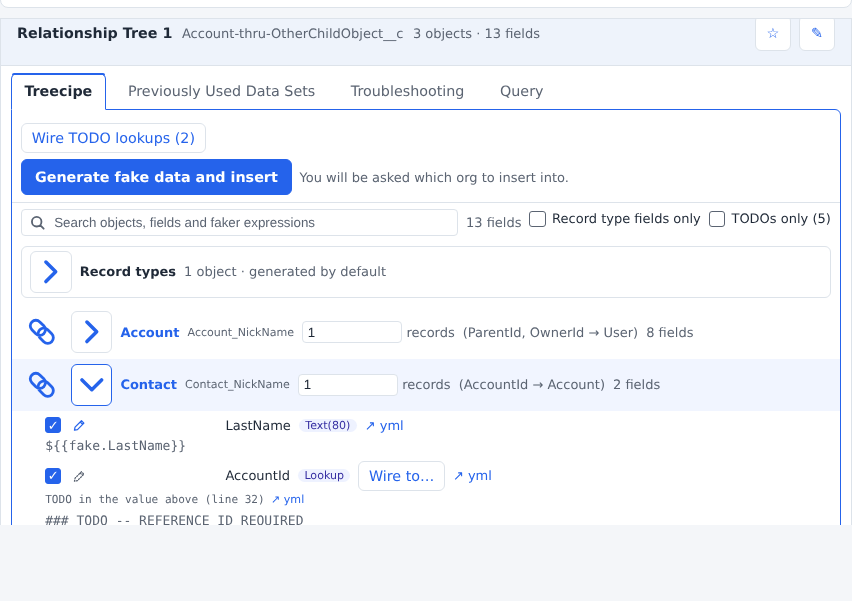
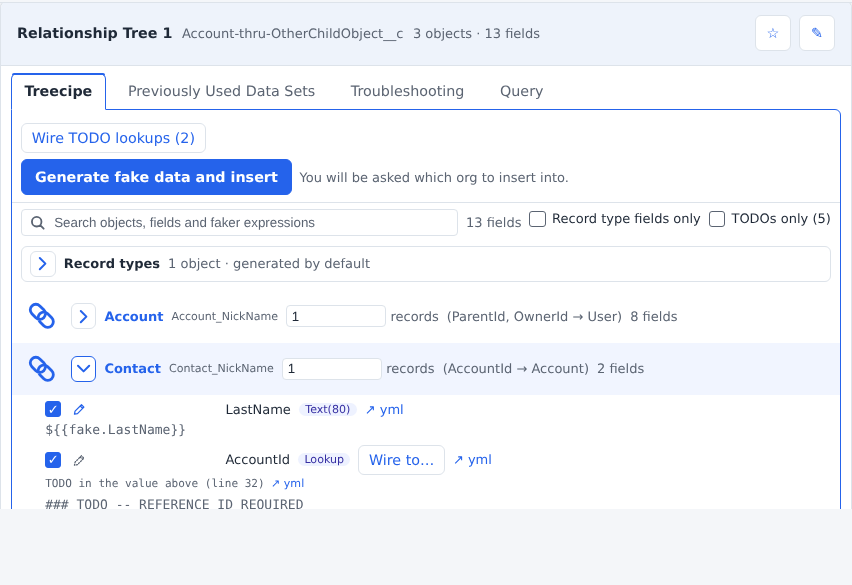
v3.117.0 — Recipe Cockpit: the chevron expand/collapse toggles are smaller, and every one is the same size (#392)
Every chevron toggle (Treecipe object rows, the Record types section
header, the TODO's and Validation Rules object groups) now carries one
shared chevronToggle class: a 1.6rem box holding a 1.2rem chevron, down
from 2.6rem/2.1rem, lifting the secondary kind's 2.25rem minimum. The
Troubleshooting chevrons, which had no size rule and were larger than
the object rows', now match. Guide screenshots re-taken.

Claude-Session: https://claude.ai/code/session_011S4EqzNTsKErxp7ozfLTd1

diff --git a/src/treecipe/src/RecipeCockpitService/tests/RecipeCockpitService.test.ts b/src/treecipe/src/RecipeCockpitService/tests/RecipeCockpitService.test.ts
@@ -443,11 +443,13 @@ describe('RecipeCockpitService', () => {
         // #244 MADE THE ▸/▾ BIG ENOUGH TO READ AT A GLANCE; #277 GAVE THE PICKLIST'S THE SAME SIZE AND CENTRED ALL THREE
         // #343: THE PICKLIST'S IS A TEXT BUTTON NOW, OF ONE FIXED WIDTH ITS SPACER SHARES
         // #374: A CARD HAS NO ▸ OF ITS OWN ANY MORE
-        it('draws the Treecipe object toggle as one centred 2.6rem box, the picklist button and its spacer one width, and the field rows centred on them', () => {
+        // #392: EVERY CHEVRON SHRANK TO ONE 1.6rem BOX, AND THE SECONDARY KIND'S 2.25rem MINIMUM NO LONGER HOLDS IT OPEN
+        it('draws every chevron toggle as one centred 1.6rem box holding a 1.2rem glyph, the picklist button and its spacer one width, and the field rows centred on them', () => {
 
             const styleSheet = styleSheetOf(RecipeCockpitService.buildWebviewShellHtml('testNonce'));
-            const toggleBoxRule = ruleFor(styleSheet, '\\.treeObjectToggle');
-            const toggleCentringRule = ruleFor(styleSheet, '\\.treeObjectToggle');
+            const toggleBoxRule = ruleFor(styleSheet, '\\.chevronToggle');
+            const toggleCentringRule = ruleFor(styleSheet, '\\.chevronToggle');
+            expect(ruleFor(styleSheet, '\\.treeObjectToggle')).toBe('');
             expect(styleSheet).not.toContain('.treeToggle');
             const picklistWidthRule = ruleFor(styleSheet, '\\.picklistToggle, \\.picklistToggleSpacer');
 
@@ -456,8 +458,15 @@ describe('RecipeCockpitService', () => {
             expect(ruleFor(styleSheet, '\\.picklistToggle')).toContain('white-space: nowrap;');
             expect(styleSheet).not.toMatch(/\.picklistToggle[^{]*\{[^}]*height: 2\.6rem/);
 
-            expect(toggleBoxRule).toContain('width: 2.6rem;');
-            expect(toggleBoxRule).toContain('height: 2.6rem;');
+            expect(toggleBoxRule).toContain('width: 1.6rem;');
+            expect(toggleBoxRule).toContain('height: 1.6rem;');
+            expect(toggleBoxRule).toContain('min-width: 0;');
+            expect(toggleBoxRule).toContain('min-height: 0;');
+            expect(styleSheet.indexOf(toggleBoxRule)).toBeGreaterThan(styleSheet.indexOf(ruleFor(styleSheet, '\\.sdtButton-primary, \\.sdtButton-secondary')));
+            const toggleGlyphRule = ruleFor(styleSheet, '\\.toggleGlyph');
+            expect(toggleGlyphRule).toContain('width: 1.2rem;');
+            expect(toggleGlyphRule).toContain('height: 1.2rem;');
+            expect(styleSheet).not.toMatch(/2\.6rem[^}]*\}[^{]*\.toggleGlyph|\.toggleGlyph \{[^}]*2\.1rem/);
             expect(toggleCentringRule).toContain('display: inline-flex;');
             expect(toggleCentringRule).toContain('align-items: center;');
             expect(toggleCentringRule).toContain('justify-content: center;');
@@ -2222,6 +2231,7 @@ describe('RecipeCockpitService', () => {
 
             const accountElement = treeObjectNamed(panel, firstTreeCard, 'Account');
             const objectToggle = panel.findAll(accountElement, 'treeObjectToggle')[0];
+            expect(objectToggle.classList.contains('chevronToggle')).toBe(true);
             expect(objectToggle.textContent).toBe('');
             expect(objectToggle.children[0].namespaceURI).toBe('http://www.w3.org/2000/svg');
             expect(objectToggle.children[0].attributes['aria-hidden']).toBe('true');

diff --git a/src/treecipe/src/RecipeCockpitService/RecipeCockpitService.ts b/src/treecipe/src/RecipeCockpitService/RecipeCockpitService.ts
@@ -330,7 +330,9 @@ export const RECIPE_COCKPIT_VALIDATION_RULE_NOT_APPLIED_LABEL = 'rule not applie
 /*
     The ▸/▾ of a tree card, a Treecipe object and a picklist field (#277), drawn like the chain link: a
     font's triangle sits on the text baseline, so no button rule could centre it. An open chevron (#307)
-    whose box is centred on (12, 12) in the same 24x24 view box, stroked from the palette by CSS.
+    whose box is centred on (12, 12) in the same 24x24 view box, stroked from the palette by CSS. Every
+    toggle carries chevronToggle, one 1.6rem box holding a 1.2rem glyph (#392), which lifts the
+    secondary kind's 2.25rem minimum; the stroke is in view box units, so it thins with the glyph.
 */
 export const RECIPE_COCKPIT_TOGGLE_COLLAPSED_GLYPH_PATH = 'M8.5 5 L15.5 12 L8.5 19';
 // The magnifier inside every search box (#373): a lens and a handle in the same 24x24 view box, stroked from the palette.
@@ -12309,11 +12311,13 @@ ${this.buildPaletteCustomProperties()}
     }
     .dataOrgRefresh { display: inline-flex; align-items: center; gap: 0.35rem; line-height: 1; }
     .dataOrgRefreshIcon { font-size: 1.5em; line-height: 1; }
-    .treeObjectToggle {
+    .chevronToggle {
         box-sizing: border-box;
         flex: none;
-        width: 2.6rem;
-        height: 2.6rem;
+        width: 1.6rem;
+        height: 1.6rem;
+        min-width: 0;
+        min-height: 0;
         display: inline-flex;
         align-items: center;
         justify-content: center;
@@ -12323,7 +12327,7 @@ ${this.buildPaletteCustomProperties()}
     .picklistToggle, .picklistToggleSpacer { box-sizing: border-box; flex: none; width: 7.5rem; }
     .picklistToggle { display: inline-flex; align-items: center; justify-content: center; padding: 0.4rem 0.6rem; line-height: 1; white-space: nowrap; }
     .picklistToggleSpacer { display: inline-block; height: 1px; }
-    .toggleGlyph { display: block; width: 2.1rem; height: 2.1rem; transition: transform ${RECIPE_COCKPIT_MOTION_REVEAL_MILLISECONDS}ms ease; }
+    .toggleGlyph { display: block; width: 1.2rem; height: 1.2rem; transition: transform ${RECIPE_COCKPIT_MOTION_REVEAL_MILLISECONDS}ms ease; }
     [aria-expanded="true"] > .toggleGlyph { transform: rotate(90deg); }
     .noMotion > .toggleGlyph { transition: none; }
     .toggleGlyph path { fill: none; stroke: var(--sdt-accent); stroke-width: 2.5; stroke-linecap: round; stroke-linejoin: round; }
@@ -14533,7 +14537,7 @@ ${this.buildPaletteCustomProperties()}
     */
     function buildToggleElement(className) {
 
-        const toggleElement = createButton('secondary', className);
+        const toggleElement = createButton('secondary', 'chevronToggle ' + className);
         const glyphElement = document.createElementNS(SVG_NAMESPACE, 'svg');
         const pathElement = document.createElementNS(SVG_NAMESPACE, 'path');
 

diff --git a/src/treecipe/src/RecipeCockpitService/tests/RecipeCockpitTroubleshootingSubTabs.test.ts b/src/treecipe/src/RecipeCockpitService/tests/RecipeCockpitTroubleshootingSubTabs.test.ts
@@ -269,6 +269,7 @@ describe('RecipeCockpitService, the Troubleshooting tab\'s sub-tabs (#365)', () 
             // THE FIRST GROUP ALWAYS OPENS; THE NEXT WOULD PASS THE ROW BUDGET, SO IT AND EVERY LATER ONE STAY CLOSED AND UNBUILT
             expect(groups.map(rowCountOf)).toEqual([1503, 0, 0]);
             expect(groups.map((groupElement: any) => toggleOf(groupElement).attributes['aria-expanded'])).toEqual(['true', 'false', 'false']);
+            expect(groups.every((groupElement: any) => toggleOf(groupElement).classList.contains('chevronToggle'))).toBe(true);
             expect(panel.findAll(groups[1], 'troubleshootingTodoCount')[0].textContent).toBe('1501 TODOs');
 
             toggleOf(groups[1]).dispatch('click');

diff --git a/src/treecipe/src/RecipeCockpitService/tests/RecipeCockpitRecordTypes.test.ts b/src/treecipe/src/RecipeCockpitService/tests/RecipeCockpitRecordTypes.test.ts
@@ -666,6 +666,7 @@ describe('RecipeCockpitService, the Record types tab (#195)', () => {
             expect(panel.findAll(panel.treeCards()[0], 'recordTypesSection')[0].classList.contains('disabled')).toBe(false);
             expect(panel.findAll(panel.treeCards()[1], 'recordTypesSection')).toHaveLength(1);
             expect(panel.findAll(panel.treeCards()[1], 'recordTypesSection')[0].classList.contains('disabled')).toBe(true);
+            expect(sectionToggleOf(panel).classList.contains('chevronToggle')).toBe(true);
 
         });
 

diff --git a/src/treecipe/src/RecipeCockpitService/tests/RecipeCockpitValidationRuleList.test.ts b/src/treecipe/src/RecipeCockpitService/tests/RecipeCockpitValidationRuleList.test.ts
@@ -756,6 +756,7 @@ describe('RecipeCockpitService, the Validation Rules list (#327)', () => {
 
             // A READER'S CLICK OPENS AND CLOSES A GROUP
             const toggle = panel.findAll(panel.findAll(subPanel, 'validationRuleObject')[objectCount - 1], 'validationRuleToggle')[0];
+            expect(toggle.classList.contains('chevronToggle')).toBe(true);
             toggle.dispatch('click');
             expect(toggle.attributes['aria-expanded']).toBe('false');
 

diff --git a/CHANGELOG.md b/CHANGELOG.md
@@ -1,5 +1,18 @@
 # Change Log
 
+## [3.117.0] - Recipe Cockpit: the chevron expand/collapse toggles are smaller, and every one is the same size
+
+Closes [#392](https://github.com/jdschleicher/Salesforce-Data-Treecipe/issues/392).
+
+#244 made the chevrons about three times larger, and #307's outlined chevron kept that size, so they crowded the rows. The Troubleshooting sub-tabs' chevrons were also a different size from the Treecipe tab's, because they had no size rule of their own and took the `secondary` button's padding and 2.25rem minimum.
+
+- **One smaller size.** Every chevron (Treecipe object rows, the Record types section header, the TODO's object groups, the Validation Rules object groups) is a 1.6rem box holding a 1.2rem chevron, down from 2.6rem and 2.1rem. `buildToggleElement` adds one shared `chevronToggle` class, which carries the box and lifts the secondary kind's minimum.
+- **Stroke.** The stroke width stays 2.5 in the chevron's 24×24 view box, so it thins with the glyph to 2px on screen, the weight of the chain link beside it.
+- **Still a usable target.** 1.6rem is about 25.6px, over the 24px minimum target size.
+- **Unchanged.** The rotate on `aria-expanded` (#227), `prefers-reduced-motion`, the colours, the button kind, and the chain-link include button and its spacer (#257), which stay one width so every row still lines up.
+- **Guide.** The screenshots in `docs/RECIPE-COCKPIT-GUIDE.md` were re-taken.
+- **Tests.** `RecipeCockpitService.test.ts` holds `.chevronToggle` to 1.6rem with no minimum, after the kind's rule, and the glyph to 1.2rem; the object row, Record types, TODO's and Validation Rules suites check each toggle carries `chevronToggle`.
+
 ## [3.116.0] - Recipe Cockpit: the Treecipes dropdown names the chosen treecipe's objects in insert order
 
 Closes [#385](https://github.com/jdschleicher/Salesforce-Data-Treecipe/issues/385).
